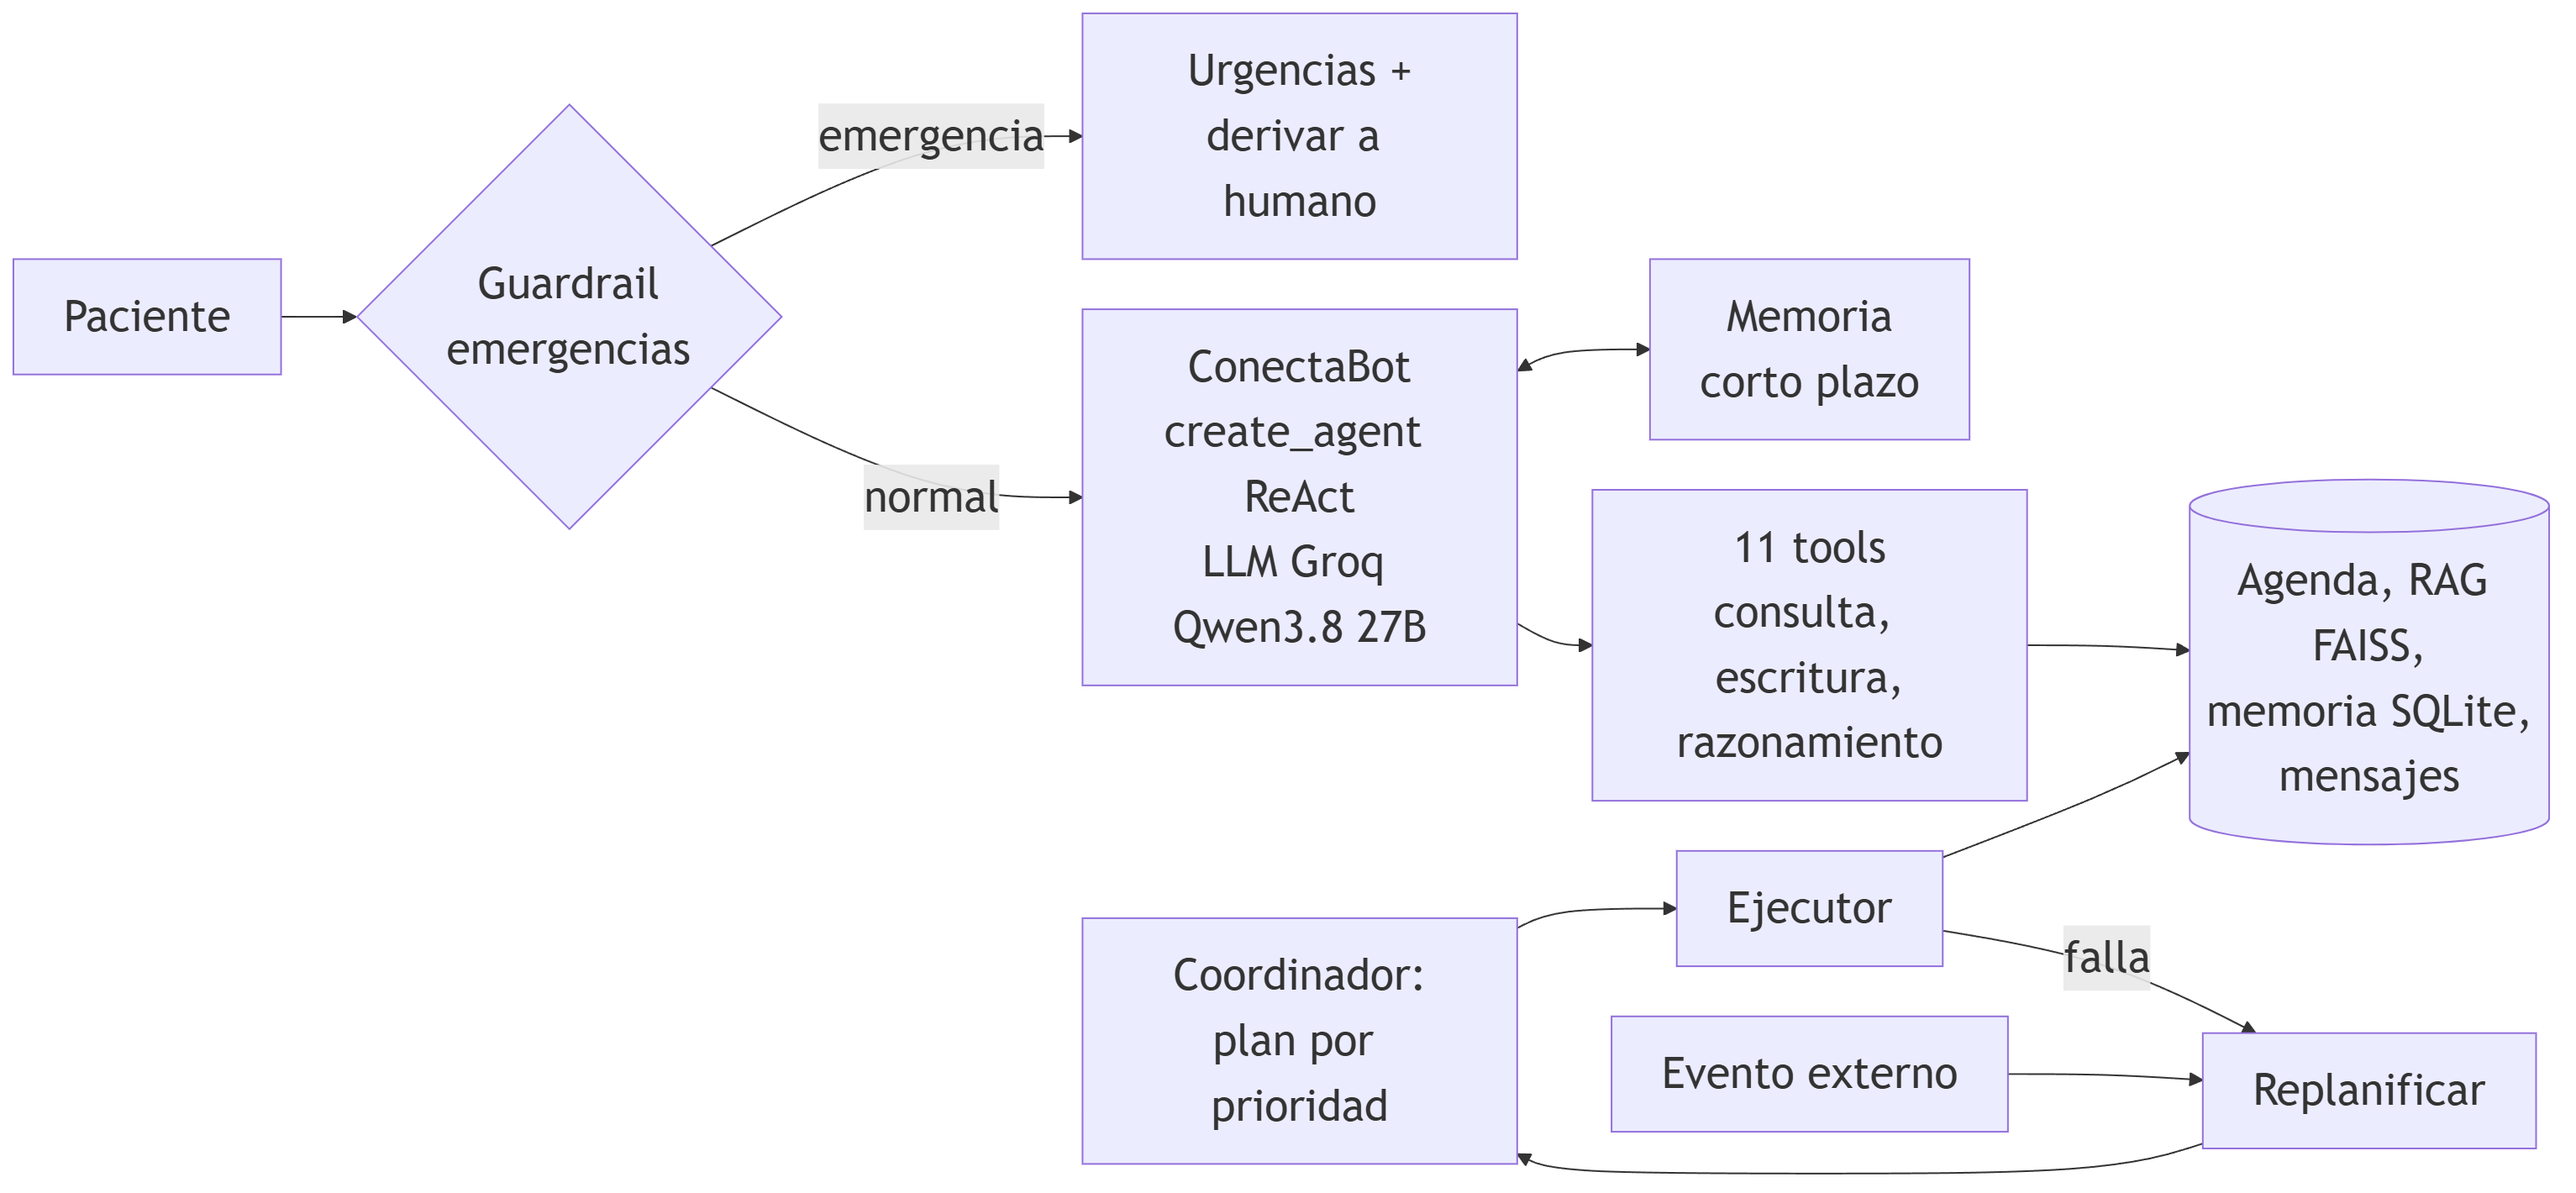
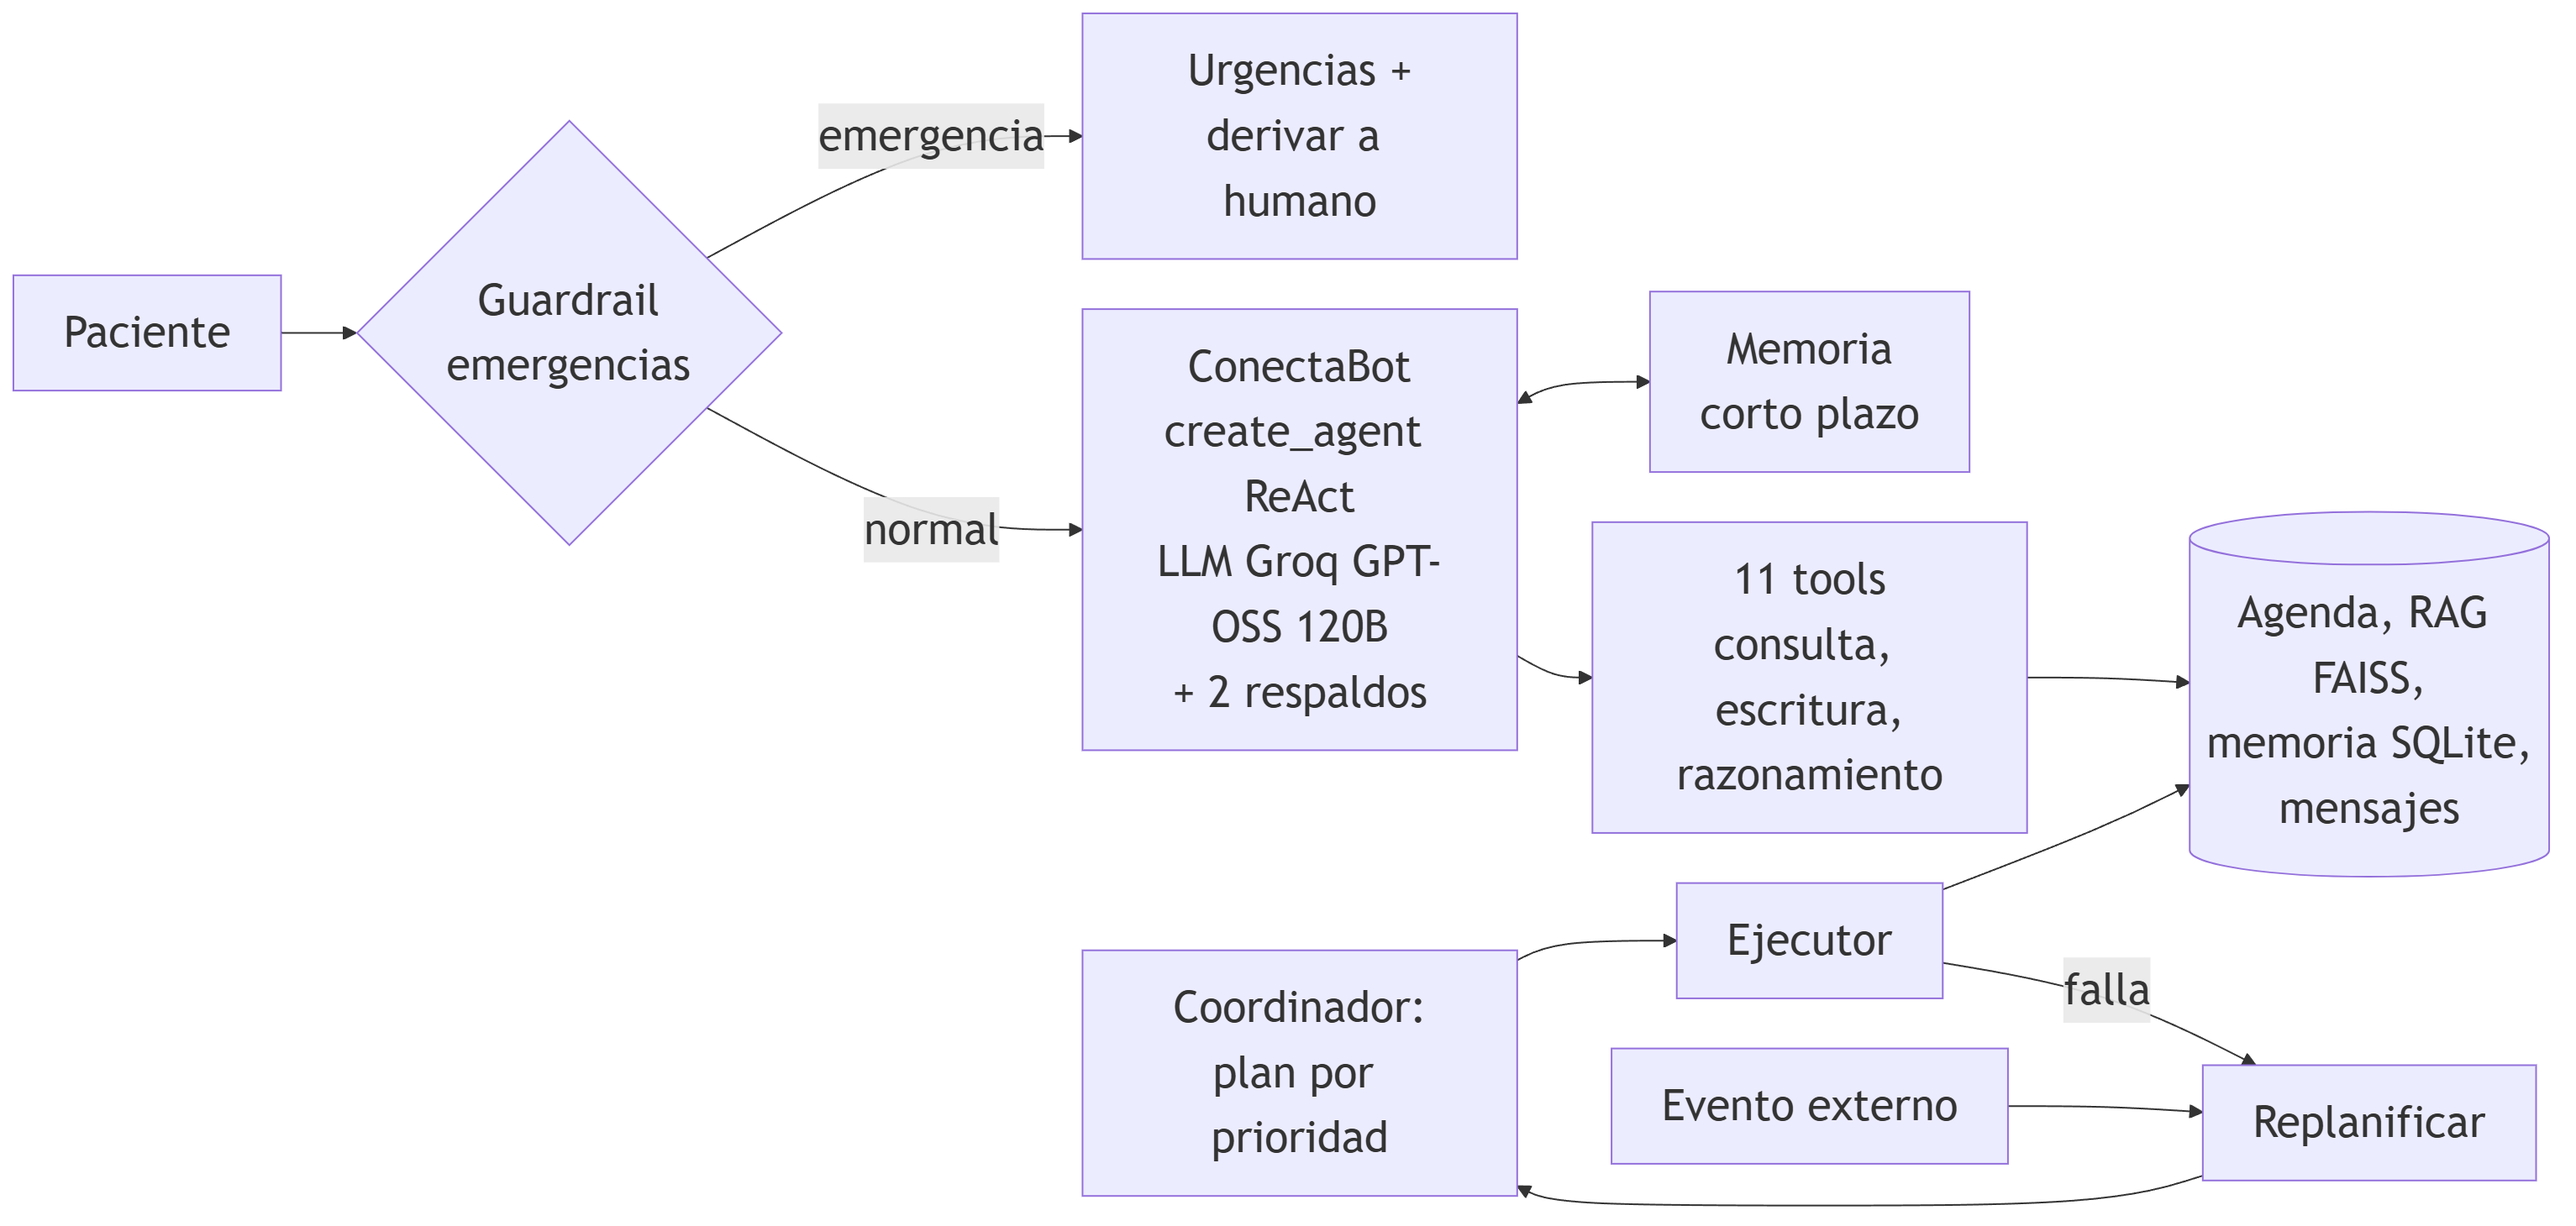
README y diagramas: cascada de modelos de Groq y latencia medida

diff --git a/README.md b/README.md
@@ -20,7 +20,7 @@ flowchart LR
         U[Paciente<br/>chat o WhatsApp simulado] --> G{Guardrail<br/>de emergencias}
         G -- emergencia --> H[derivar_a_humano<br/>urgencia alta]
         G -- consulta normal --> A[ConectaBot<br/>LangChain create_agent<br/>ciclo ReAct en LangGraph]
-        A <--> LLM[Groq: Qwen3.8 27B<br/>respaldo: GPT-OSS 120B]
+        A <--> LLM[Groq: GPT-OSS 120B<br/>respaldos: GPT-OSS 20B y Qwen3.8]
         A <--> MC[Memoria de corto plazo<br/>checkpointer + resumen]
         A --> TC[Tools de consulta]
         A --> TE[Tools de escritura]
@@ -61,7 +61,7 @@ El sistema tiene dos modos:
 | Componente | Tecnología | Archivo |
 |---|---|---|
 | Framework de agentes | LangChain 1.4 `create_agent` (grafo de LangGraph) con middleware | `src/agent.py` |
-| LLM | Groq, `qwen/qwen3.8-27b`, razonamiento oculto; respaldo `openai/gpt-oss-120b` con `ModelFallbackMiddleware` | `src/config.py` |
+| LLM | Groq en cascada: `openai/gpt-oss-120b` (principal), `openai/gpt-oss-20b` y `qwen/qwen3.8-27b` con `ModelFallbackMiddleware`; sin reintentos ante un límite de uso (429), pasa al siguiente modelo | `src/config.py` |
 | RAG | `PyPDFDirectoryLoader` + `TextLoader`, chunks 350/50, FAISS, k=3. Embeddings locales con FastEmbed (`paraphrase-multilingual-MiniLM-L12-v2`, 384 dim) por defecto; `gemini-embedding-001` (EP1) opcional con `EMBEDDINGS_PROVIDER=gemini` | `src/rag_engine.py` |
 | Memoria de corto plazo | `InMemorySaver` (un `thread_id` por sesión) + `SummarizationMiddleware` (sobre 14 mensajes resume y conserva 6) | `src/agent.py` |
 | Memoria de largo plazo | SQLite con embedding por recuerdo y recuperación por similitud coseno; respaldo por palabras si no hay API | `src/memoria.py` |
@@ -176,7 +176,7 @@ SaludConecta-IA/
 - El riesgo de inasistencia usa reglas con pesos fijos, no el clasificador entrenado que propusimos en la EP1. No tiene métricas de recall.
 - `protocolos_ampliados.md` es un documento simulado para el proyecto; no reemplaza indicaciones médicas.
 - La memoria de corto plazo vive en RAM: al reiniciar el agente solo queda la de largo plazo.
-- Groq tiene límites de uso por minuto en el plan gratuito; si se exceden, el agente pasa al modelo de respaldo.
+- Groq gratis tiene cuotas por minuto y por modelo (`qwen/qwen3.8-27b`: 1.000 tokens de salida por minuto; `gpt-oss-120b`: 8.000 tokens por minuto). Por eso hay una cascada de modelos. En la demo en vivo la latencia promedio con LLM fue 8,3 s (`docs/evidencia_demo_ep2.txt`).
 - En la EP1 los embeddings eran de Gemini. En la EP2 la API de Gemini devolvió `403 PERMISSION_DENIED` para el proyecto de la clave, por eso el valor por defecto es un modelo local; el índice de Gemini sigue disponible como opción.
 - FAISS (C++) no abre rutas con tildes en Windows: el índice se guarda como bytes desde Python (`faiss_index_local/indice_ep2.bin`).
 
